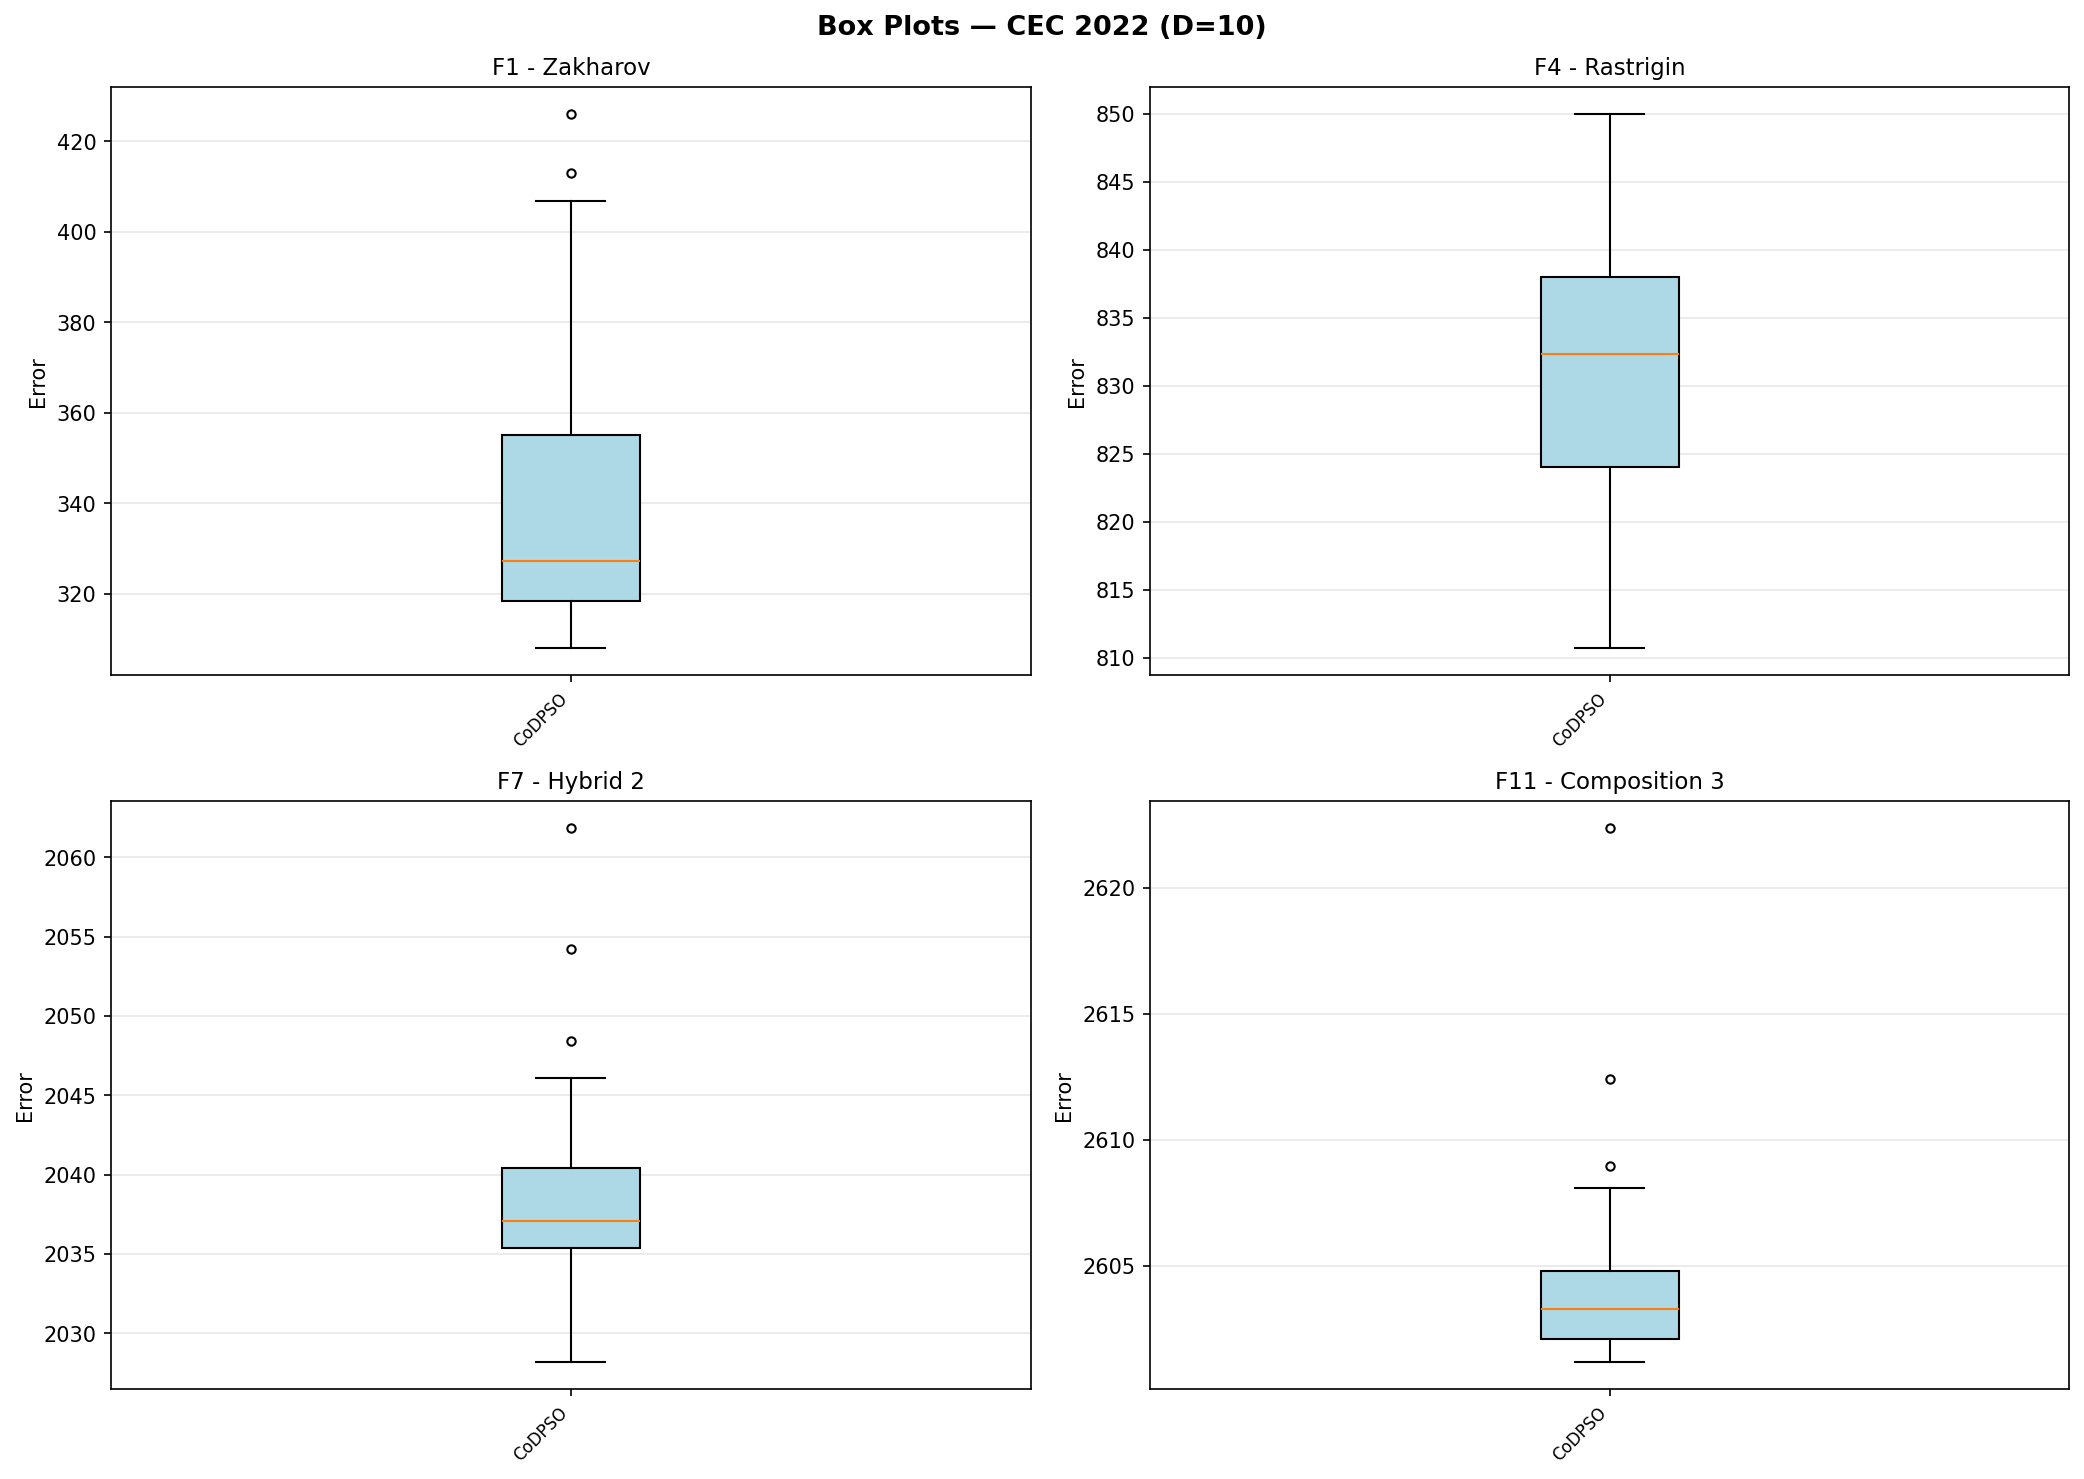
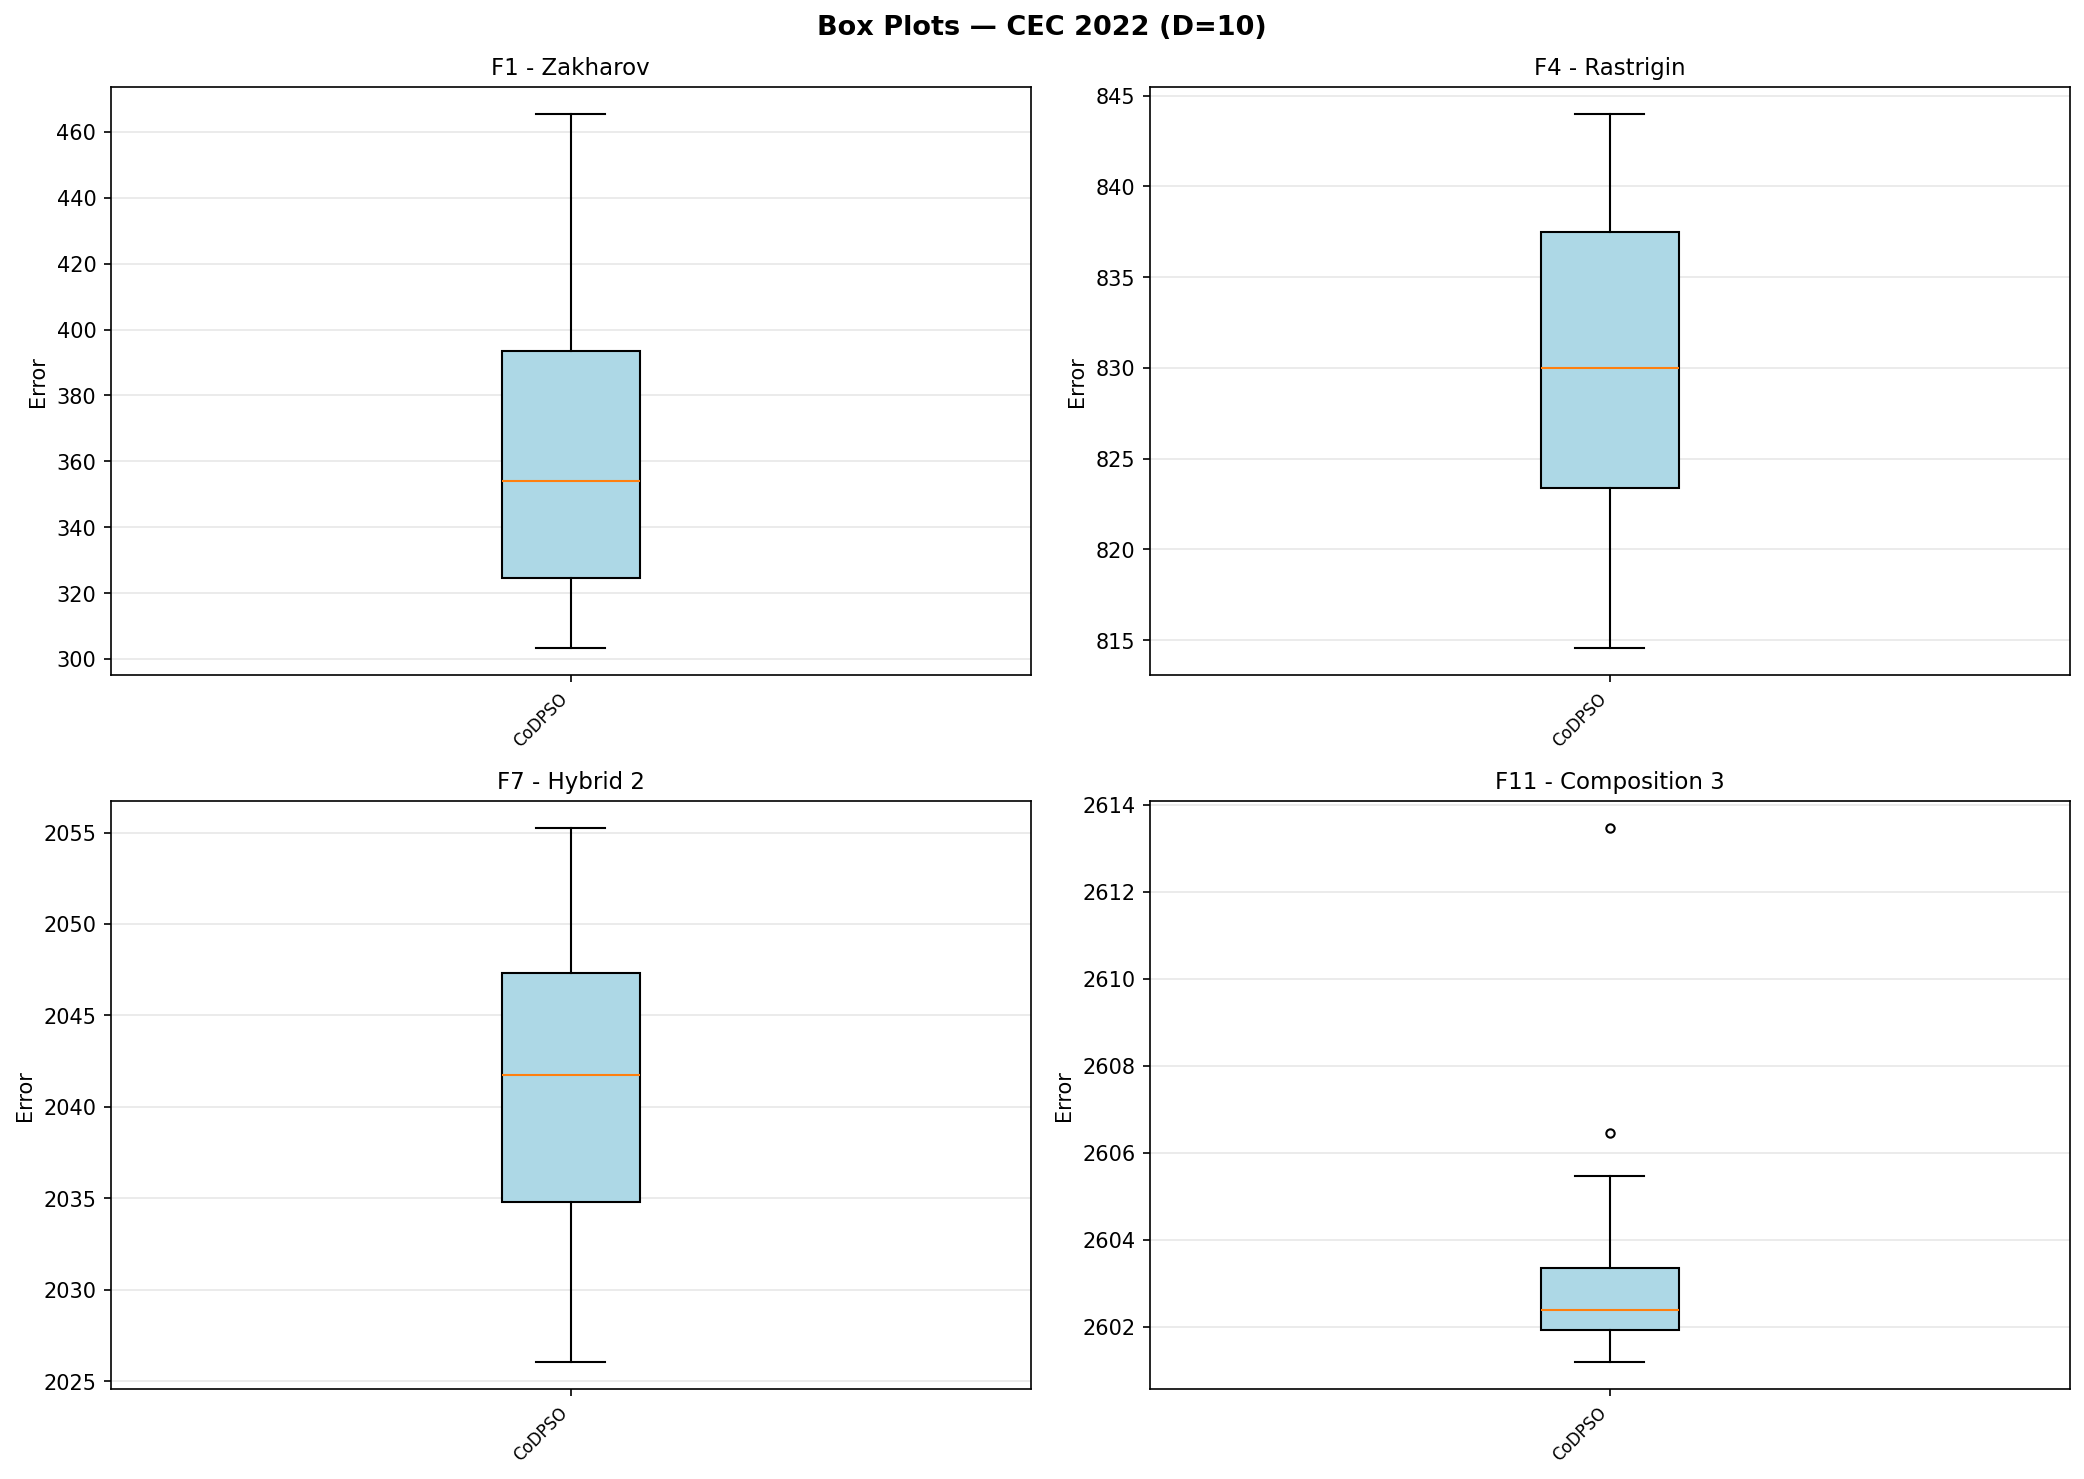
value change

diff --git a/config.py b/config.py
@@ -7,8 +7,8 @@ BETA  = 0.8
 MEMORY_LENGTH = 4
 
 W  = 1.0
-C1 = 1.5
-C2 = 1.5
+C1 = 2.0 #was 1.5
+C2 = 1.0 #was 1.5
 
 NUM_SWARMS          = 5
 NS_MIN              = 3
@@ -18,6 +18,6 @@ PARTICLES_PER_SWARM = 10
 N_MIN               = 3       # FIX: was 10 — equalled PARTICLES_PER_SWARM, killing swarms instantly
 N_MAX               = 50
 
-SC_MAX              = 20 #changed from 30 to 20
+SC_MAX              = 30 #changed from 30 to 20
 
 RUNS = 30
